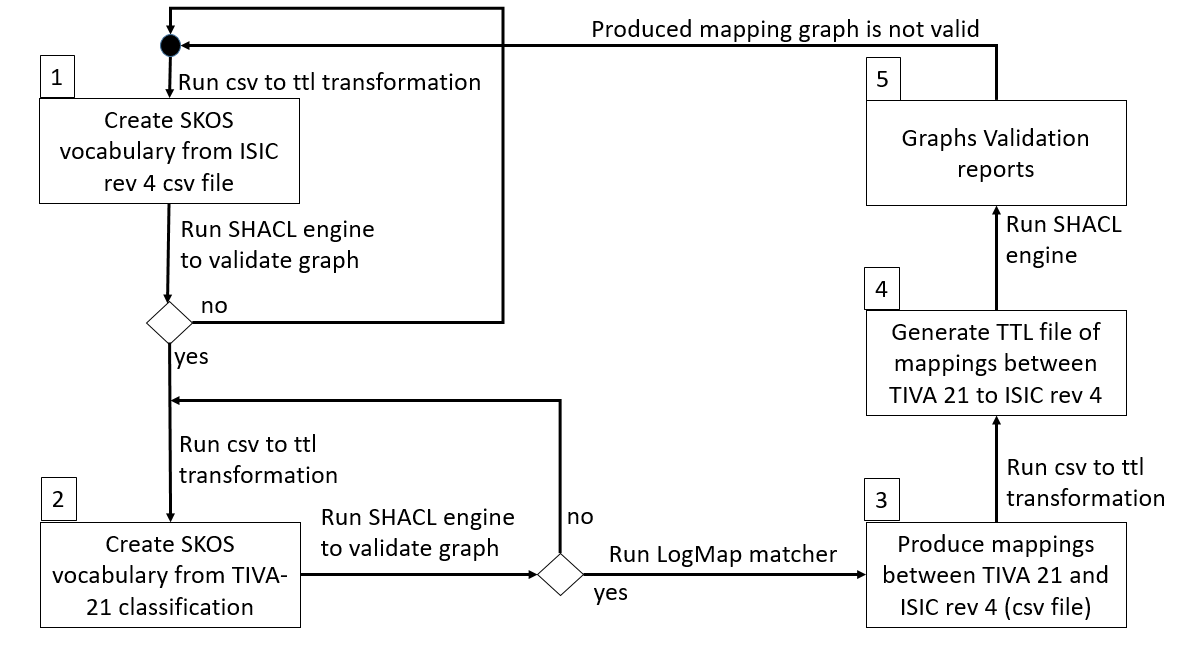
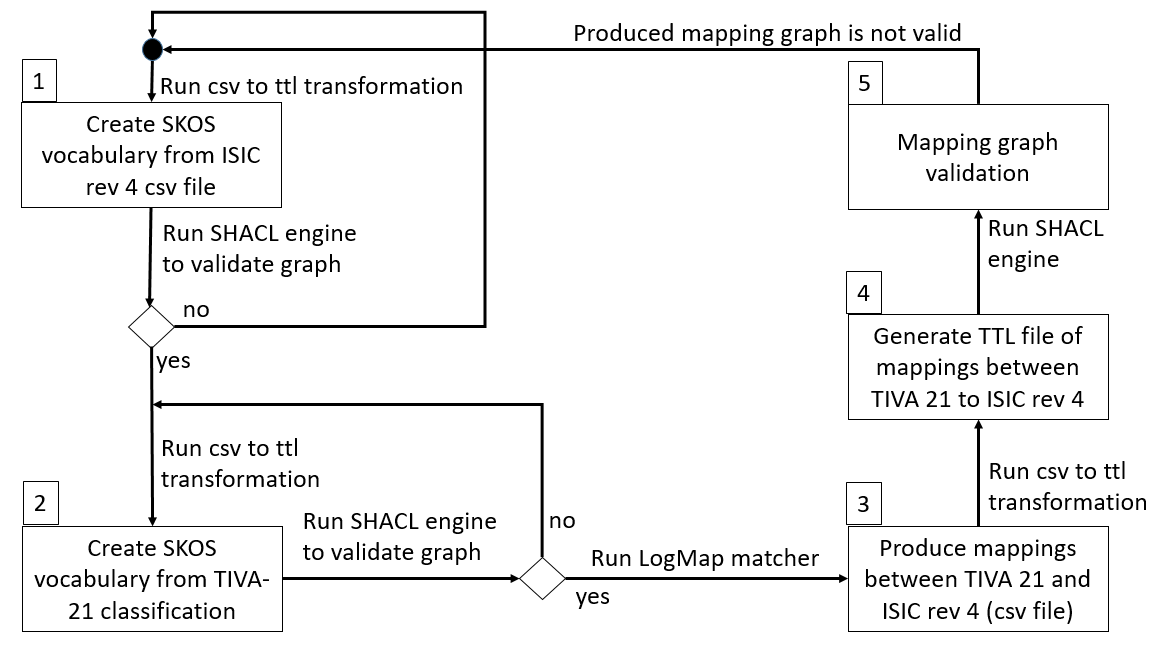
updated png file

Changed region(s): [[0.0307, 0.0, 0.9838, 0.9741], [0.2152, 0.9437, 0.2459, 0.9741], [0.0307, 0.9437, 0.0615, 0.9741]]

diff --git a/ontology/mapping/logmap-mappings/README.md b/ontology/mapping/logmap-mappings/README.md
@@ -26,7 +26,7 @@ The ISIC4-core.csv file is available in **isic-rev4-data** folder within this gi
  The resulting **isic4_data** TTL file is available in **mapping** folder of this repository. 
 Each node in the ISIC Rev 4 graph is instance of a **skos:Concept**. 
 The [SCHAL](https://github.com/TopQuadrant/shacl) engine is used to validate ISIC Rev 4 graph 
-against SKOS shapes using the following command
+against SKOS shapes running the following command
 
 ```
 ./shaclvalidate.sh -datafile isic4_data.ttl -shapesfile skos.shapes.ttl
@@ -38,9 +38,19 @@ in the graph before using it in producing mappings between ISIC Rev 4 and TIVA c
 |:--:| 
 | *Figure 1. Mapping between ISIC rev 4 and TIVA 21 classifications workflow* |
 
-
-## Step 2: Create SKOS vocabulary from TIVA-21 classification
+#### Step 2: Create SKOS vocabulary from TIVA-21 classification
 
 To prepare the TIVA classification for mappings as а starting point we use [Guide to OECD TiVA Indicators, 2021 edition](https://www.oecd-ilibrary.org/science-and-technology/guide-to-oecd-tiva-indicators-2021-edition_58aa22b1-en).
-Similar to the fist step, TIVA classification is created by using **Table A.3. Industry coverage** from the Guide. SHACL engine is used to
-validate TIVA generated TIVA graph. The  TTL file is available 
+Similar to the fist step, TIVA classification is created by using **Table A.3. Industry coverage** from page 53 of the Guide. SHACL engine is used to
+validate TIVA generated TIVA graph. Created **tiva-21.ttl** file is available in **mapping** folder. To validate generated TIVA graph agains skos shapes
+one can run the following command:
+```
+./shaclvalidate.sh -datafile tiva-21.ttl -shapesfile skos.shapes.ttl
+```
+As in Step 1, if TIVA graph does not pass validation then all issues should be resolved before using TIVA graph in producing mappings between TIVA and ISIC Rev 4 classifications.
+
+#### Step 3: Produce mappings between TIVA 21 and ISIC rev 4 (csv file)
+
+#### Step 4: Generate TTL file of mappings between TIVA 21 to ISIC rev 4
+
+#### Step 5: Graphs Validation reports
